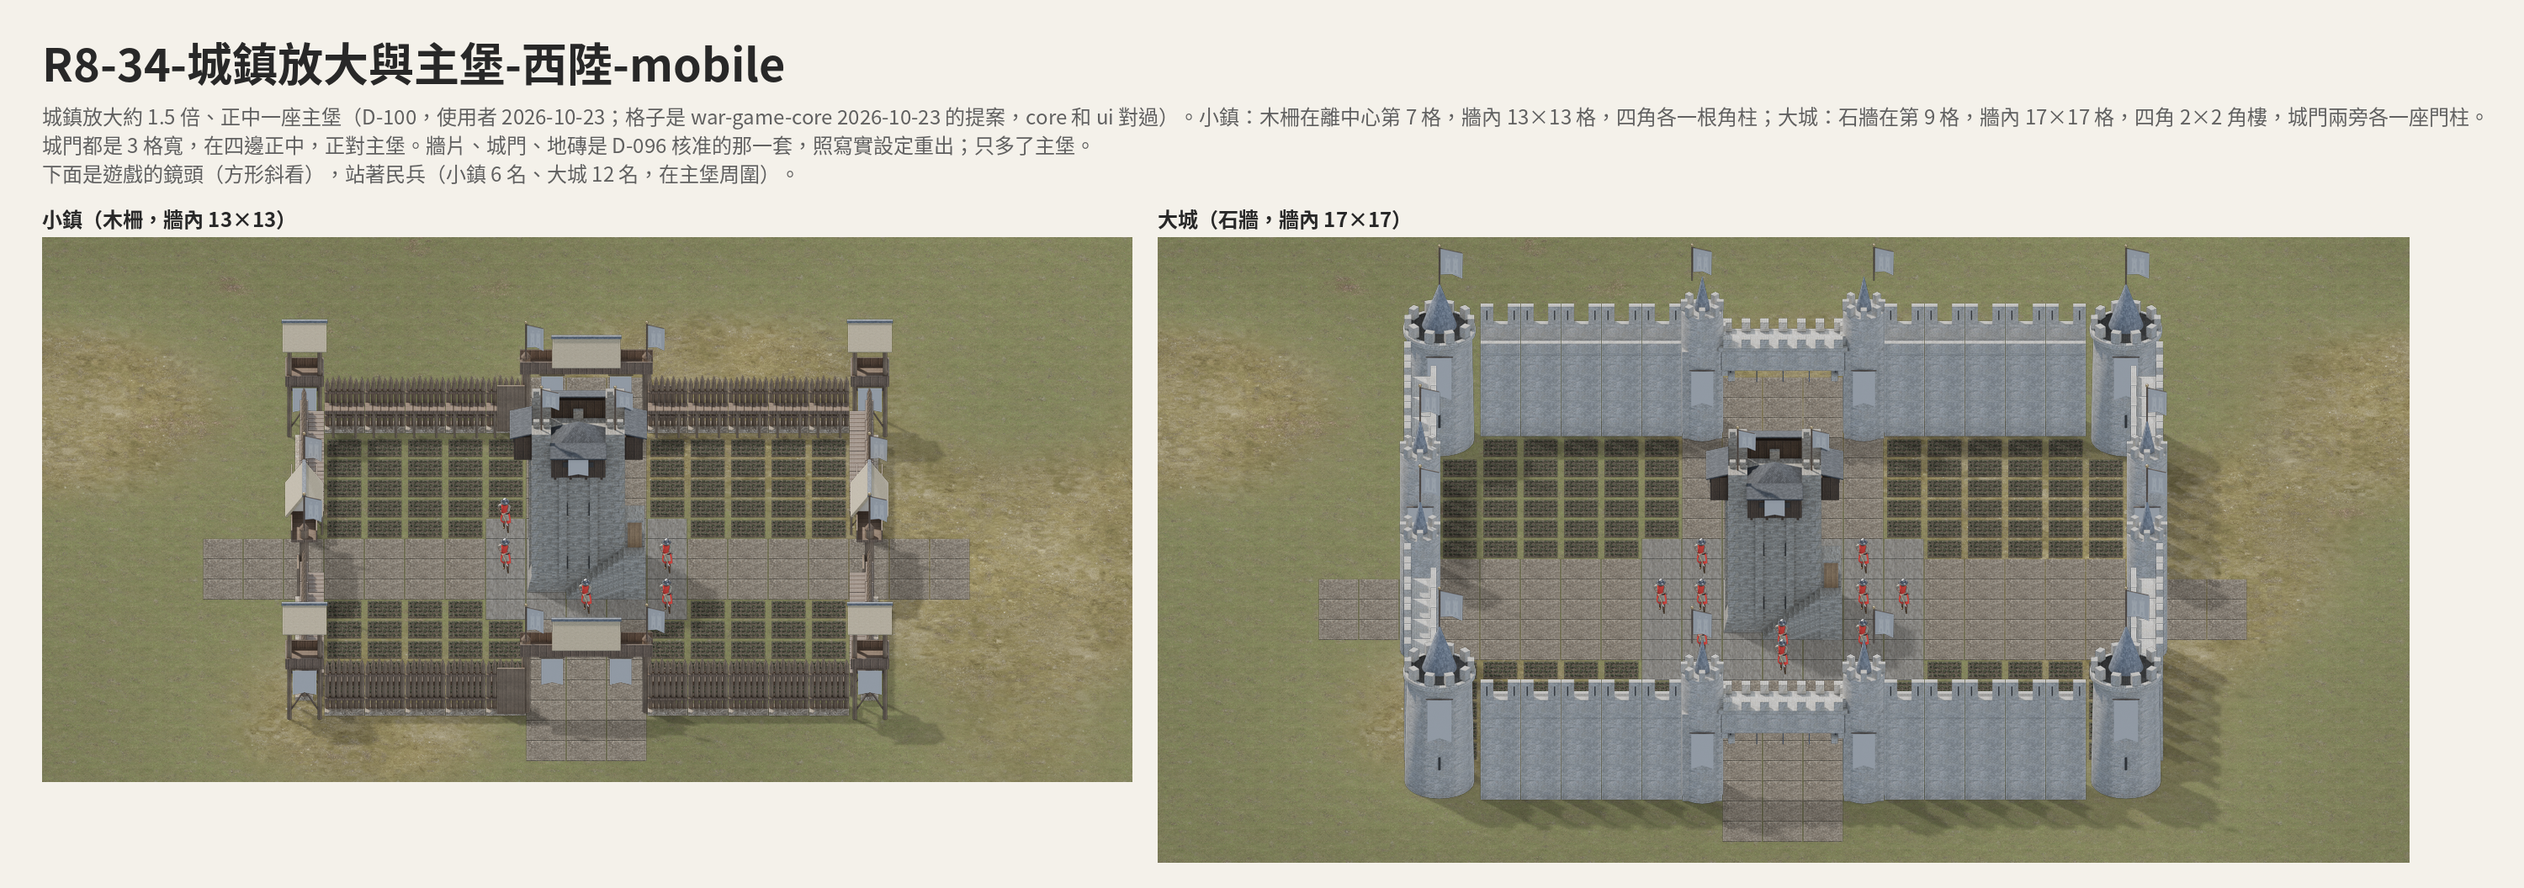
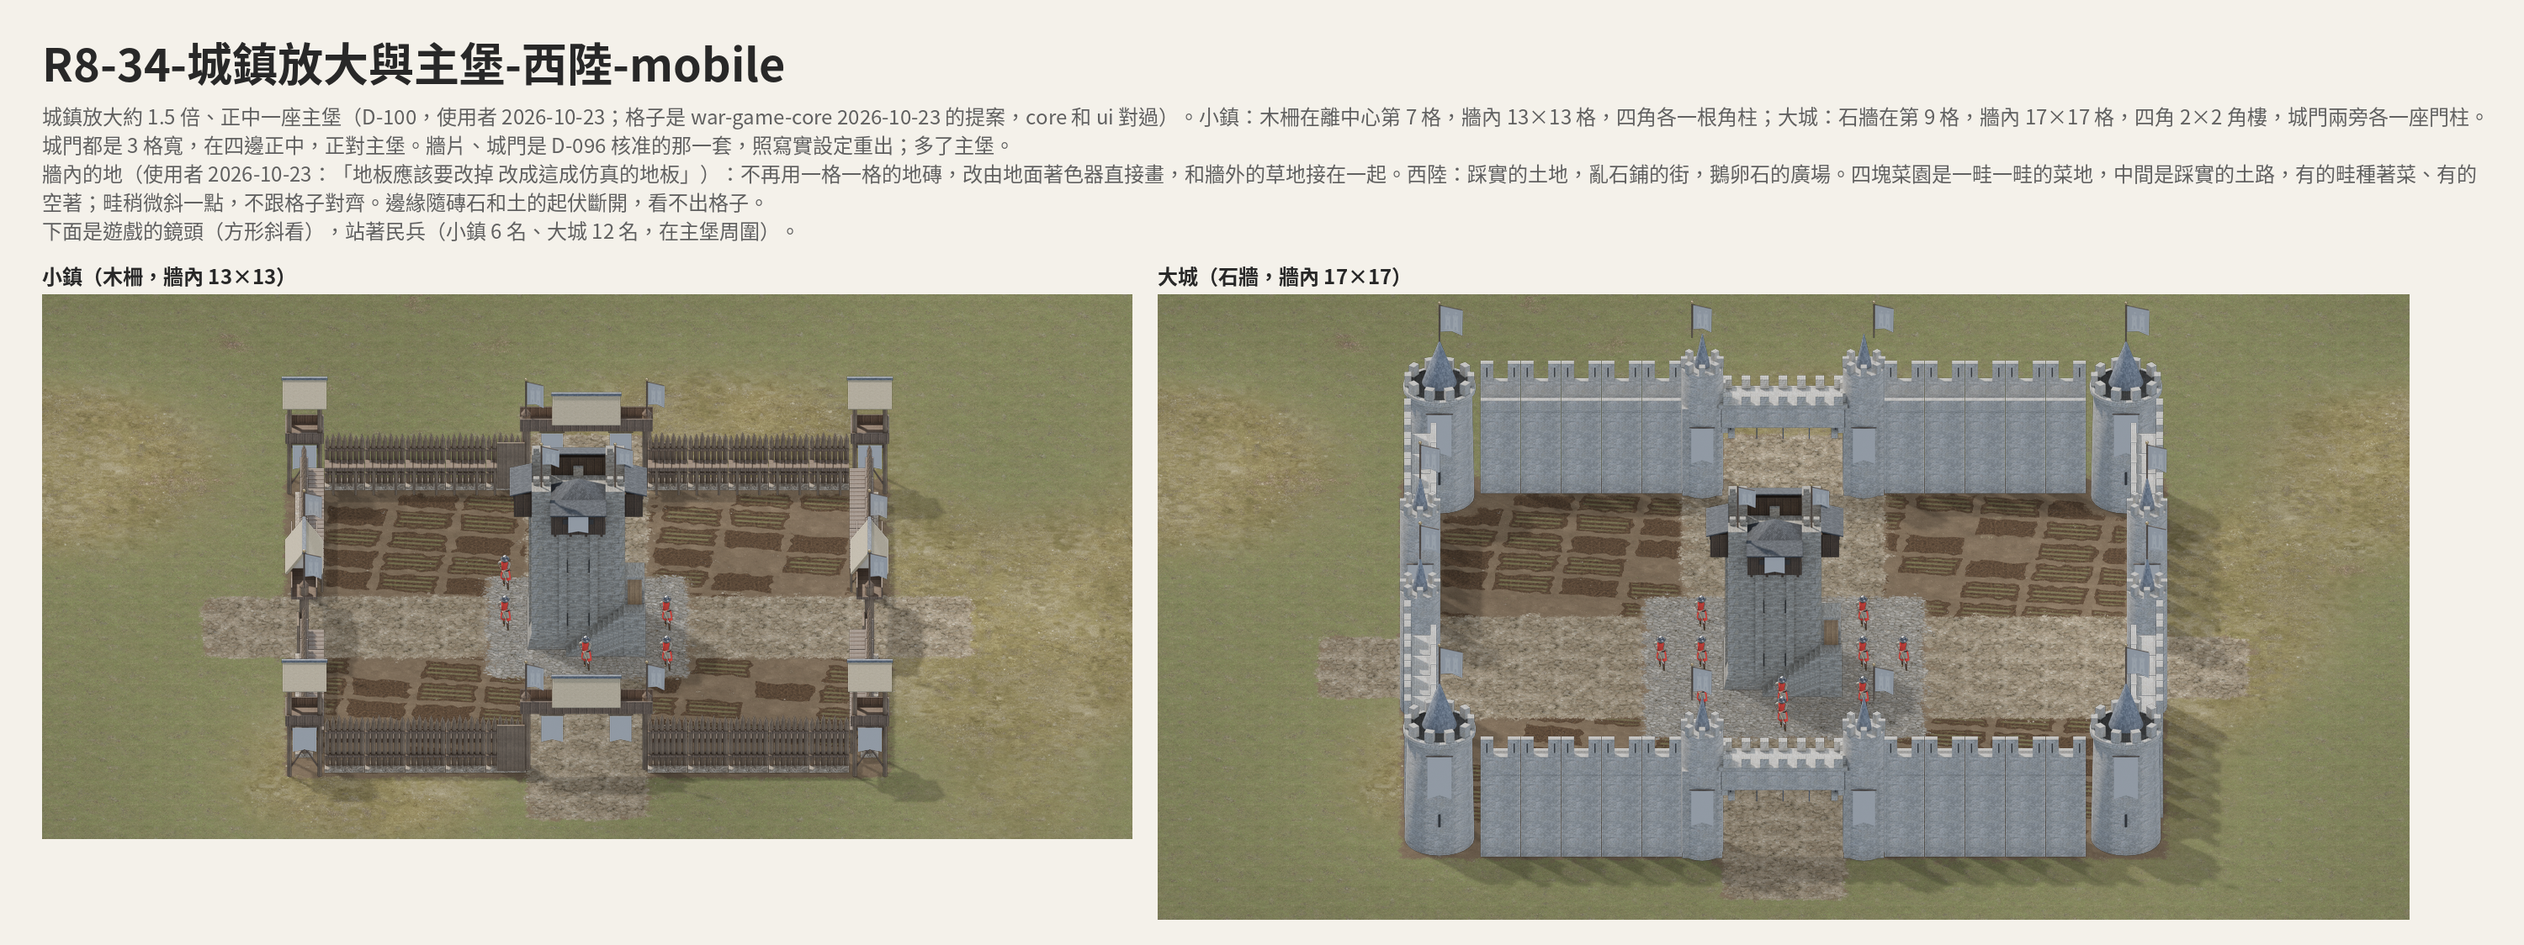
D-100 回饋（使用者 2026-10-23）：牆內的地改由地面著色器畫（夯土、東陸灰磚街和院子、西陸亂石街和鵝卵石廣場、一畦一畦的菜地，不再有格子），新的地面層 yard、garden、paved_e、street_w、court_w（Poly Haven CC0）；主堡射箭兩個選項 R8-35（A 窗口揚塵 keep_shot、B 真的箭 arrow）；R8-33、R8-34 重出

diff --git a/design/r8/common/ground_r8.py b/design/r8/common/ground_r8.py
@@ -21,6 +21,7 @@ TERRAIN = {"plain": 0, "rock": 1, "water": 3, "cliff": 7}       # the sim's Terr
 # the layers' tile sizes (m) and the rules, as client reads them (GroundJson)
 RULES = dict(bank_cells=1, gravel_cells=1, edge_m=1.2, height_k=0.9, dirt=dict(node_cells=1, noise_threshold=0.8, noise_soft=0.3),
              weights=dict(texels_per_cell=4, soft_m=1.6, blur_m=1.0))
+# (RULES["town"] is set after its table below; ground.json adds rules.water)
 # weights: the weight map soft (proposed to war-game-client 2026-10-22, the ceo's note on R8-23: the river bank came out
 # in square steps along the cells; the user approved R8-28 the same day): texels_per_cell
 # texels a cell; a channel's value a smoothstep of the distance from the nearest seed cell's square, 0.5 at `reach` cells
@@ -36,6 +37,21 @@ WATER = dict(range_m=4.5, blur_m=1.5, edge_m=0.35, wet_m=0.9, wet_dark=0.62, dep
              shallow=[0.045, 0.058, 0.045], deep=[0.012, 0.03, 0.036], bed=0.55, bed_shallow=0.45,
              noise_m=0.08, flow=[[0.05, 0.02], [-0.03, 0.04]])
 WATER_TILE_M = 4.0
+# the floor inside the walls (D-100; the user 2026-10-23: 「地板應該要改掉 改成這成仿真的地板」): a second weight map
+# (R packed earth inside the walls, G garden beds, B streets and the roads out of the gates, A the square round the
+# keep), from the castle layout's cells (castle-layout.json, castle_<c>.json floor), each channel soft at its edge
+# (soft_m) and blurred (blur_m), texels_per_cell like the first; drawn over the ground in that order, each layer
+# breaking along its own texture's height (edge_m, the ground's height_k) so no cell grid shows. layers: which
+# ground layer each channel is, per culture (all towns of a game share one culture).
+# garden: the beds inside the garden cells, laid by the shader (no cell grid): plots plot_m apart, turned angle_deg off
+# the map's axes, path_m of packed earth between them, a share `keep` of them dug (the others left to the yard's earth);
+# in a dug bed, crop rows rows_m apart along its length, the `greens` layer in them.
+TOWN = dict(soft_m=0.6, blur_m=0.35, edge_m=0.45,
+            garden=dict(plot_m=[3.3, 2.1], path_m=0.45, angle_deg=7.0, keep=0.78, rows_m=0.42, greens="grass", greens_k=0.9),
+            layers=dict(E=dict(yard="yard", garden="garden", street="paved_e", court="paved_e"),
+                        W=dict(yard="yard", garden="garden", street="street_w", court="court_w")))
+TOWN_CHANNELS = ("yard", "garden", "street", "court")
+RULES["town"] = TOWN
 GRADE = dict(brightness=1.0, saturation=0.9)      # the ground a little greyer than the units (R8: 找得到兵)
 
 
@@ -177,6 +193,49 @@ def water_distance(grid, rules):
     return a[pad * k:(pad + n) * k, pad * k:(pad + n) * k]
 
 
+def _signed(mask, k, pad_cells=2):
+    """Signed distance (metres) to the region of `mask` cells, k texels a cell: inside + (to the nearest outside cell),
+    outside - (to the nearest inside cell); only the region's edge cells are seeds."""
+    n = mask.shape[0]
+    m = np.pad(mask, pad_cells, mode="constant")
+    N = n + 2 * pad_cells
+    t = (np.arange(N * k) + 0.5) / k * CELL_M
+    X, Y = np.meshgrid(t, t)
+
+    def dist(seeds):
+        d = np.full(X.shape, 1e9)
+        for y, x in zip(*np.nonzero(seeds)):
+            dx = np.maximum(np.abs(X - (x + 0.5) * CELL_M) - CELL_M / 2, 0)
+            dy = np.maximum(np.abs(Y - (y + 0.5) * CELL_M) - CELL_M / 2, 0)
+            d = np.minimum(d, np.hypot(dx, dy))
+        return d
+    nb = np.roll(m, 1, 0) | np.roll(m, -1, 0) | np.roll(m, 1, 1) | np.roll(m, -1, 1)
+    na = np.roll(m, 1, 0) & np.roll(m, -1, 0) & np.roll(m, 1, 1) & np.roll(m, -1, 1)
+    edge_in = m & ~na
+    edge_out = ~m & nb
+    inside = np.kron(m, np.ones((k, k), dtype=bool))
+    sd = np.where(inside, np.minimum(dist(edge_out), 1e3), -np.minimum(dist(edge_in), 1e3))
+    p = pad_cells * k
+    return sd[p:p + n * k, p:p + n * k]
+
+
+def town_weights(masks, rules=RULES):
+    """The town weight map: [n*k, n*k, 4] (TOWN_CHANNELS order), each channel smoothstep(-soft/2, soft/2, signed
+    distance), blurred. masks: {channel: bool [n, n]} (cells)."""
+    tr = rules["town"]
+    k = rules["weights"]["texels_per_cell"]
+    out = []
+    for ch in TOWN_CHANNELS:
+        m = masks.get(ch)
+        if m is None or not m.any():
+            n = next(iter(masks.values())).shape[0]
+            out.append(np.zeros((n * k, n * k)))
+            continue
+        sd = _signed(m.astype(bool), k)
+        out.append(blur(smoothstep(-tr["soft_m"] / 2, tr["soft_m"] / 2, sd), tr["blur_m"] * k / CELL_M))
+    return np.dstack(out)
+
+
 def water_layer(size=512, tile_m=WATER_TILE_M, seed=7):
     """The water layer (lit, like the others; sRGB, height in A): small waves (periodic value noise, our own) seen from
     the game's camera (30 degrees up, looking north): a dark body, the sky in it by the rippled surface's fresnel."""
@@ -209,7 +268,7 @@ def water_layer(size=512, tile_m=WATER_TILE_M, seed=7):
     return np.dstack([np.clip(rgb, 0, 1), h])
 
 
-def compose(grid, nodes, layers, ppm=24, rules=RULES, grade=GRADE, high=True, t=0.0):
+def compose(grid, nodes, layers, ppm=24, rules=RULES, grade=GRADE, high=True, t=0.0, town=None, culture="E"):
     """The ground top-down (sRGB 0..1), `ppm` pixels a metre, as ground-draw.ts's fragment shader colours it."""
     n = grid.shape[0]
     size = n * CELL_M
@@ -249,6 +308,49 @@ def compose(grid, nodes, layers, ppm=24, rules=RULES, grade=GRADE, high=True, t=
     c = over(c, sample(L["dirt"]["img"], mx / L["dirt"]["tile_m"], my / L["dirt"]["tile_m"]), dirt, nz)
     c = over(c, sample(L["gravel"]["img"], mx / L["gravel"]["tile_m"], my / L["gravel"]["tile_m"]), w[..., 1], nz)
     c = over(c, sample(L["bank"]["img"], mx / L["bank"]["tile_m"], my / L["bank"]["tile_m"]), w[..., 0], nz)
+    if town is not None and rules.get("town"):
+        tw = sample(town_weights(town, rules), mx / size, my / size)
+        tr = rules["town"]
+
+        def over_t(base, layer, mask, nn):
+            e = mask * 2.0 - 1.0 + (nn - 0.5) * 0.8 + (layer[..., 3] - base[..., 3]) * rules["height_k"]
+            f = np.clip(e * (CELL_M / tr["edge_m"]) * 0.5 + 0.5, 0.0, 1.0)[..., None]
+            return base * (1 - f) + layer * f
+        def hash2(a, b):
+            return (np.sin(a * 127.1 + b * 311.7) * 43758.5453) % 1.0
+        gd = tr["garden"]
+        ang = math.radians(gd["angle_deg"])
+        gu = mx * math.cos(ang) + my * math.sin(ang)
+        gv = -mx * math.sin(ang) + my * math.cos(ang)
+        pu, pv = gd["plot_m"]
+        iu, iv = np.floor(gu / pu), np.floor(gv / pv)
+        fu, fv = gu - iu * pu, gv - iv * pv
+        half = gd["path_m"] / 2
+        edge = np.minimum(np.minimum(fu, pu - fu), np.minimum(fv, pv - fv)) + (nz - 0.5) * 0.25
+        dug = (hash2(iu, iv) < gd["keep"]).astype(float)
+        bed = smoothstep(half - 0.08, half + 0.08, edge) * dug
+        rows = 0.5 + 0.5 * np.cos(2 * math.pi * fv / gd["rows_m"])
+        planted = (hash2(iu + 17.0, iv + 5.0) < 0.75).astype(float)
+        greens = smoothstep(0.45, 0.7, rows) * planted * smoothstep(half + 0.15, half + 0.3, edge)
+        for i, ch in enumerate(TOWN_CHANNELS):
+            lid = tr["layers"][culture][ch]
+            img = L[lid]["img"]
+            tm = L[lid]["tile_m"]
+            a = sample(img, mx / tm, my / tm)
+            if high:                                # a second sample turned and moved, mixed by noise: no repeat
+                rx = (0.8 * mx + 0.6 * my) * 0.91 + 7.3
+                ry = (-0.6 * mx + 0.8 * my) * 0.91 + 3.1
+                kk = smoothstep(0.35, 0.65, nz)[..., None]
+                a = a * (1 - kk) + sample(img, rx / tm, ry / tm) * kk
+            m = tw[..., i]
+            if ch == "garden":
+                m = m * bed
+            c = over_t(c, a, m, nz)
+            if ch == "garden":                      # the crop rows: greens in the dug, planted beds
+                gl = L[gd["greens"]]
+                g2 = sample(gl["img"], mx / gl["tile_m"], my / gl["tile_m"])
+                f = (tw[..., i] * bed * greens * gd["greens_k"])[..., None]
+                c = c * (1 - f) + g2 * f
     if w.shape[-1] > 3 and "water" in L:
         wa = rules["water"]
         sd = (w[..., 3] - 0.5) * 2 * wa["range_m"] + (nz - 0.5) * 2 * wa["noise_m"]
@@ -298,7 +400,7 @@ def assemble(baked, out, spec):
     lin = np.where(wl[..., :3] <= 0.04045, wl[..., :3] / 12.92, ((wl[..., :3] + 0.055) / 1.055) ** 2.4)
     entries.append(dict(id="water", file="water.png", tile_m=WATER_TILE_M, mean=[round(float(x), 4) for x in lin.reshape(-1, 3).mean(0)]))
     layers["water"] = dict(img=wl, tile_m=WATER_TILE_M)
-    gj = dict(format="war-game ground 1", layers=entries, rules=dict(RULES, water=WATER), grade=GRADE)
+    gj = dict(format="war-game ground 1", layers=entries, rules=dict(RULES, water=WATER, town=TOWN), grade=GRADE)
     (out / "ground.json").write_text(json.dumps(gj, indent=1))
     return layers
 

diff --git a/design/production/common/effects.py b/design/production/common/effects.py
@@ -328,6 +328,64 @@ def crater_image(scale=3.0):
     return img.resize((px, px), Image.LANCZOS), CRATER_R
 
 
+# ---------------------------------------------------------------- D-100 the keep's arrows: two options for the user
+
+KEEP_SHOT_FRAMES, KEEP_SHOT_FPS = 3, 20
+
+
+def keep_shot_frames(scale=3.0, seed=41):
+    """Option A: at the window an archer shoots from, 0.15 s: a puff of dust off the sill and the string's twang, small
+    (about 0.7 m), pale and soft, no star. Anchor: the window's point."""
+    ppm = spec.PX_PER_M * scale / 3.0
+    rnd = random.Random(seed)
+    W = H = max(8, int(1.2 * ppm))
+    out = []
+    puffs = [dict(a=rnd.uniform(-0.6, 0.6) - math.pi / 2, sp=rnd.uniform(0.3, 1.0), s=rnd.uniform(0.5, 0.9), seed=seed * 10 + k)
+             for k in range(7)]
+    for f in range(KEEP_SHOT_FRAMES):
+        t = (f + 1) / KEEP_SHOT_FRAMES
+        can = Image.new("RGBA", (W, H), (0, 0, 0, 0))
+        fade = (1 - f / KEEP_SHOT_FRAMES) * 0.95
+        for p in puffs:
+            r = 0.06 + 0.3 * t * p["sp"]
+            x = W / 2 + math.cos(p["a"]) * r * ppm
+            y = H / 2 + math.sin(p["a"]) * r * ppm * 0.6
+            size = max(3, int(p["s"] * (0.18 + 0.28 * t) * ppm))
+            pf = _puff(size, p["seed"], (206, 196, 176), (150, 140, 122))
+            pf.putalpha(pf.getchannel("A").point(lambda v, k=fade: int(v * k)))
+            can.alpha_composite(pf, (int(x - size / 2), int(y - size / 2)))
+        if f == 0:                                    # the twang: a faint light flick at the window, one frame
+            d = ImageDraw.Draw(can)
+            r = 0.09 * ppm
+            d.ellipse([W / 2 - r, H / 2 - r, W / 2 + r, H / 2 + r], fill=(255, 238, 200, 110))
+        out.append((can.filter(ImageFilter.GaussianBlur(0.4 * scale / 3.0)), (W / 2, H / 2)))
+    return out
+
+
+ARROW_LEN_M = 0.8
+
+
+def arrow_image(scale=3.0):
+    """Option B: one arrow, drawn flying right (+x), for the game to turn along its flight: a birch shaft, an iron head,
+    three grey fletchings; a little longer than real (0.8 m) so it reads at phone size. Anchor: its middle."""
+    ppm = spec.PX_PER_M * scale / 3.0
+    k = 4
+    L = ARROW_LEN_M * ppm * k
+    H = max(6, int(0.12 * ppm)) * k
+    im = Image.new("RGBA", (int(L) + 2 * k, H), (0, 0, 0, 0))
+    d = ImageDraw.Draw(im)
+    cy = H / 2
+    sh = max(1.0, 0.012 * ppm * k)
+    d.rectangle([0.12 * L, cy - sh, 0.9 * L, cy + sh], fill=(196, 172, 128, 255))                 # the shaft
+    d.line([0.12 * L, cy + sh * 0.6, 0.9 * L, cy + sh * 0.6], fill=(120, 100, 70, 255), width=max(1, int(sh * 0.6)))
+    d.polygon([(0.88 * L, cy - sh * 2.6), (L, cy), (0.88 * L, cy + sh * 2.6)], fill=(70, 70, 74, 255))  # the head
+    for e in (-1, 1):                                                                             # the fletchings
+        d.polygon([(0.03 * L, cy), (0.2 * L, cy), (0.16 * L, cy + e * sh * 4.2), (0.0 * L, cy + e * sh * 4.6)],
+                  fill=(150, 146, 136, 235))
+    im = im.resize((max(1, im.width // k), max(1, im.height // k)), Image.LANCZOS)
+    return im, (im.width / 2, im.height / 2)
+
+
 CORE_RADIUS = 0.75                   # the core image is drawn at 75 % of the circle; the game grows it from 25 %
 
 
@@ -389,6 +447,13 @@ def write_atlas(scale=3.0, page=2048):
     im, rad = crater_image(scale)
     items.append(("siege_crater_00", im, im.width / 2, im.height / 2))
     effects["siege_crater"] = dict(frames=1, fps=1, loop=True, top_down=True, radius_m=rad, crater_s=8.0)
+    for i, (im, (ax, ay)) in enumerate(keep_shot_frames(scale)):
+        bb = im.getchannel("A").point(lambda v: 255 if v > 4 else 0).getbbox()
+        items.append((f"keep_shot_{i:02d}", im.crop(bb), ax - bb[0], ay - bb[1]))
+    effects["keep_shot"] = dict(frames=KEEP_SHOT_FRAMES, fps=KEEP_SHOT_FPS, loop=False)
+    im, (ax, ay) = arrow_image(scale)
+    items.append(("arrow_00", im, ax, ay))
+    effects["arrow"] = dict(frames=1, fps=1, loop=True, len_m=ARROW_LEN_M, speed_mps=35.0, arc_k=0.06, turn=True)
     for name, (im, rad) in warn_images(scale).items():
         bb = im.getchannel("A").point(lambda v: 255 if v > 4 else 0).getbbox()
         items.append((f"{name}_00", im.crop(bb), im.width / 2 - bb[0], im.height / 2 - bb[1]))

diff --git a/design/r8/common/keep_board.py b/design/r8/common/keep_board.py
@@ -131,11 +131,27 @@ def castle_scene(c, L, gdir, units_dir, ppm=30):
     g = np.zeros((n + head, n + head), dtype=int)  # square (ground_r8.compose): the extra columns split left and right
     gj = json.loads((gdir / "ground" / "ground.json").read_text())
     rules = dict(gj["rules"], dirt=dict(gj["rules"]["dirt"], noise_threshold=0.99))
-    top = ground_r8.compose(g, [], S._ground_layers(gdir), ppm=ppm, rules=rules)
+    ox, oy = R + head // 2, R + head                # the layout's centre cell in the scene
+    N = n + head
+    town = {ch: np.zeros((N, N), dtype=bool) for ch in ground_r8.TOWN_CHANNELS}
+    for (dx, dy), kind in L["cells"].items():       # the floor (D-100): the ground shader's town map, from the cells
+        x, y = dx + ox, dy + oy
+        town["yard"][y, x] = True
+        if kind == "garden":
+            town["garden"][y, x] = True
+        elif kind in ("street", "gate"):
+            town["street"][y, x] = True
+        elif kind in ("square", "keep"):
+            town["court"][y, x] = True
+    for t in CA.floor(L):                           # the roads out of the gates
+        if t["tile"] == "street":
+            x, y = t["cell"][0] + ox, t["cell"][1] + oy
+            town["street"][y, x] = True
+            town["yard"][y, x] = True
+    top = ground_r8.compose(g, [], S._ground_layers(gdir), ppm=ppm, rules=rules, town=town, culture=c)
     cam = Image.fromarray((top * 255).round().astype(np.uint8), "RGB").resize((top.shape[1], top.shape[0] // 2), Image.LANCZOS)
     cam = cam.convert("RGBA")
     f = ppm / 60.0
-    ox, oy = R + head // 2, R + head                # the layout's centre cell in the scene
 
     def px(cx, cy):
         return (cx + ox) * 2.0 * ppm, (cy + oy) * 2.0 * ppm * 0.5
@@ -143,12 +159,7 @@ def castle_scene(c, L, gdir, units_dir, ppm=30):
     def sprite(d, name):
         im, anc, sh = S._sprite(d, name, "x3", f)
         return im, anc, sh
-    flat, items, shadows = [], [], []
-    for t in CA.floor(L):
-        cx, cy = t["cell"]
-        im, anc, _ = sprite(WDIR, f"castle_tile_{t['tile']}_{c}")
-        X, Y = px(cx + 0.5, cy + 0.5)
-        flat.append((im, (int(X - anc[0]), int(Y - anc[1]))))
+    flat, items, shadows = [], [], []               # (the floor tiles are gone: the ground draws the floor)
     for p in CA.placements(L):
         im, anc, sh = sprite(WDIR, f"castle_{p['piece']}_{c}_intact")
         X, Y = px(*p["anchor"])
@@ -182,7 +193,12 @@ def board_castles(c, gdir, units_dir, W=3000):
     label = f"R8-{33 if c == 'E' else 34}-城鎮放大與主堡-{SIDE[c]}-mobile"
     text = ("城鎮放大約 1.5 倍、正中一座主堡（D-100，使用者 2026-10-23；格子是 war-game-core 2026-10-23 的提案，core 和 ui 對過）。"
             "小鎮：木柵在離中心第 7 格，牆內 13×13 格，四角各一根角柱；大城：石牆在第 9 格，牆內 17×17 格，四角 2×2 角樓，城門兩旁各一座門柱。"
-            "城門都是 3 格寬，在四邊正中，正對主堡。牆片、城門、地磚是 D-096 核准的那一套，照寫實設定重出；只多了主堡。\n"
+            "城門都是 3 格寬，在四邊正中，正對主堡。牆片、城門是 D-096 核准的那一套，照寫實設定重出；多了主堡。\n"
+            "牆內的地（使用者 2026-10-23：「地板應該要改掉 改成這成仿真的地板」）：不再用一格一格的地磚，改由地面著色器直接畫，"
+            "和牆外的草地接在一起。" + ("東陸：踩實的夯土地，灰磚鋪的街和主堡前的院子（唐代州府子城的磚鋪甬道）。" if c == "E" else
+                                     "西陸：踩實的土地，亂石鋪的街，鵝卵石的廣場。") +
+            "四塊菜園是一畦一畦的菜地，中間是踩實的土路，有的畦種著菜、有的空著；畦稍微斜一點，不跟格子對齊。"
+            "邊緣隨磚石和土的起伏斷開，看不出格子。\n"
             "下面是遊戲的鏡頭（方形斜看），站著民兵（小鎮 6 名、大城 12 名，在主堡周圍）。")
     parts = [B.header(W, label, text)]
     sm = castle_scene(c, CA.small(), gdir, units_dir, ppm=24)

diff --git a/design/r8/common/ground_run.py b/design/r8/common/ground_run.py
@@ -25,6 +25,12 @@ LAYERS = [
     dict(id="dirt", tex="stony_dirt_path", tile_m=2.17, tint=(0.16, 0.115, 0.07), contrast=0.85),
     dict(id="gravel", tex="rocks_ground_02", tile_m=2.0, tint=(0.11, 0.1, 0.085), contrast=0.95, hue=0.1),
     dict(id="bank", tex="brown_mud_rocks_01", tile_m=1.3, tint=(0.12, 0.1, 0.075), contrast=0.85),
+    # D-100: the floor inside the walls (ground_r8.py rules.town; the user 2026-10-23: no tile grid, a real floor)
+    dict(id="yard", tex="dirt", tile_m=2.0, tint=(0.12, 0.09, 0.058), contrast=0.8),                  # packed earth
+    dict(id="garden", tex="farm_soil", tile_m=2.0, tint=(0.07, 0.047, 0.028), contrast=0.9),          # tilled beds
+    dict(id="paved_e", tex="brick_pavement_02", tile_m=2.0, tint=(0.085, 0.082, 0.078), contrast=1.0, hue=0.35),  # grey brick
+    dict(id="street_w", tex="cobblestone_floor_13", tile_m=2.0, tint=(0.13, 0.11, 0.08), contrast=1.0, hue=0.4),
+    dict(id="court_w", tex="cobblestone_floor_001", tile_m=2.4, tint=(0.11, 0.105, 0.095), contrast=1.0, hue=0.4),
 ]
 
 

diff --git a/design/r7/common/textures.py b/design/r7/common/textures.py
@@ -43,6 +43,12 @@ TEXTURES = [
     ("japanese_camphor_bark", "1k", "R8 trees: the East camphor (樟)"),
     ("jolcham_oak_bark_01", "1k", "R8 trees: the West oak"),
     ("bark_platanus", "1k", "R8 trees: the birch (recoloured pale)"),
+    # D-100 the floor inside the walls, drawn by the ground shader (ground_r8.py rules.town)
+    ("dirt", "1k", "R8 towns: packed earth inside the walls"),
+    ("farm_soil", "1k", "R8 towns: the garden beds"),
+    ("brick_pavement_02", "1k", "R8 towns East: the brick streets and courtyard"),
+    ("cobblestone_floor_13", "1k", "R8 towns West: the cobbled streets"),
+    ("cobblestone_floor_001", "1k", "R8 towns West: the cobbled square"),
 ]
 MAPS = {"diff": "Diffuse", "nor_gl": "nor_gl", "rough": "Rough"}
 PIN = {}                      # file name -> {url, sha256}, filled by `pin` from Poly Haven's file API
